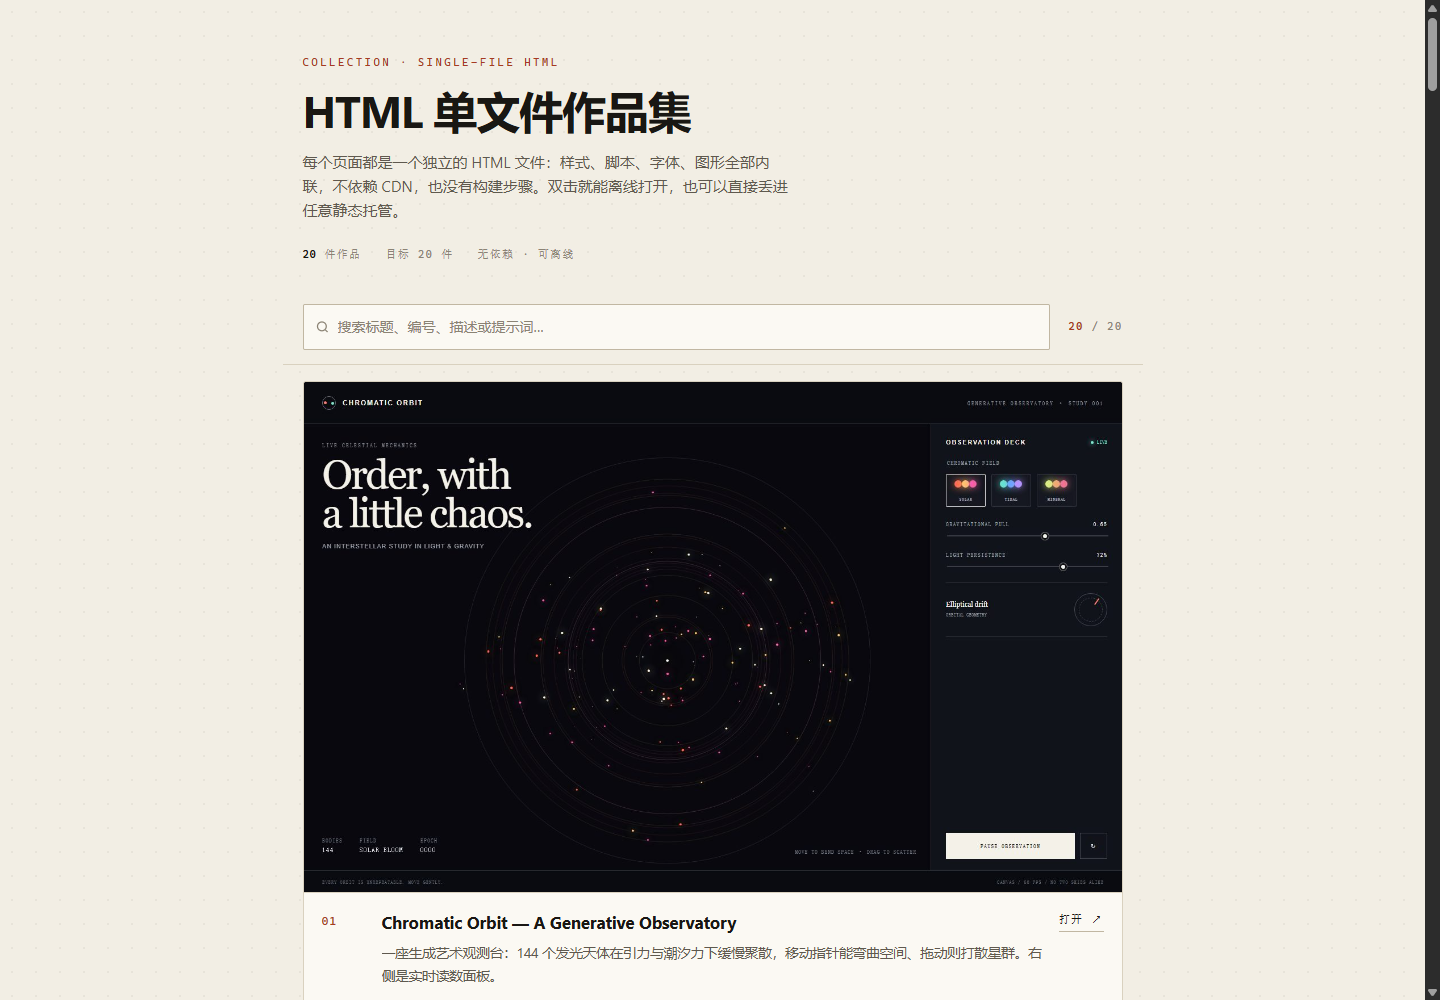
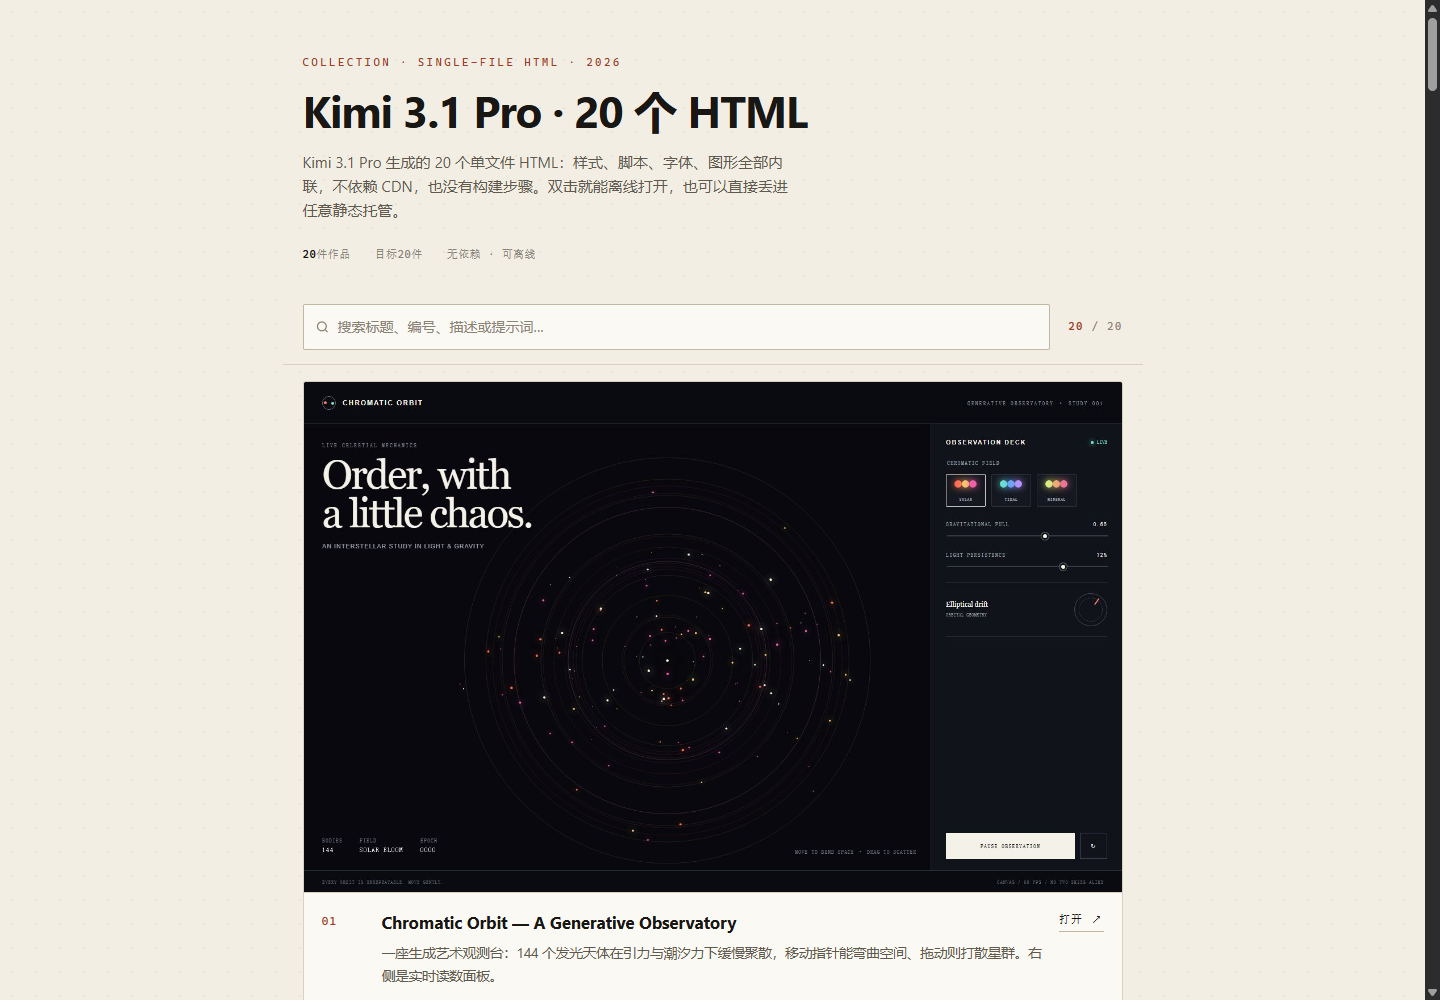
Attribute collection to Kimi 3.1 Pro and refresh social copy

Changed region(s): [[0.2188, 0.093, 0.5625, 0.186], [0.2188, 0.248, 0.4062, 0.279]]

diff --git a/index.html b/index.html
@@ -3,12 +3,12 @@
 <head>
 <meta charset="utf-8">
 <meta name="viewport" content="width=device-width, initial-scale=1">
-<title>HTML 单文件作品集 · 20 件</title>
-<meta name="description" content="每个页面都是一个独立的 HTML 文件：样式、脚本、字体、图形全部内联，不依赖 CDN，也没有构建步骤。双击就能离线打开，也可以直接丢进任意静态托管。">
+<title>Kimi 3.1 Pro · 20 个 HTML</title>
+<meta name="description" content="Kimi 3.1 Pro 生成的 20 个单文件 HTML：样式、脚本、字体、图形全部内联，不依赖 CDN，也没有构建步骤。双击就能离线打开，也可以直接丢进任意静态托管。">
 <link rel="canonical" href="https://ennheng.github.io/html-studies/">
 <meta property="og:type" content="website">
-<meta property="og:title" content="HTML 单文件作品集 · 20件">
-<meta property="og:description" content="每个页面都是一个独立的 HTML 文件：样式、脚本、字体、图形全部内联，不依赖 CDN，也没有构建步骤。双击就能离线打开，也可以直接丢进任意静态托管。">
+<meta property="og:title" content="Kimi 3.1 Pro · 20 个 HTML">
+<meta property="og:description" content="Kimi 3.1 Pro 生成的 20 个单文件 HTML：样式、脚本、字体、图形全部内联，不依赖 CDN，也没有构建步骤。双击就能离线打开，也可以直接丢进任意静态托管。">
 <meta property="og:url" content="https://ennheng.github.io/html-studies/">
 <meta property="og:image" content="https://ennheng.github.io/html-studies/og.jpg">
 <meta property="og:image:width" content="1200">
@@ -90,9 +90,9 @@ footer a:hover{text-decoration:underline}
 <body>
 <main class="wrap">
 <header>
-  <p class="eyebrow">COLLECTION · SINGLE-FILE HTML</p>
-  <h1>HTML 单文件作品集</h1>
-  <p class="lede">每个页面都是一个独立的 HTML 文件：样式、脚本、字体、图形全部内联，不依赖 CDN，也没有构建步骤。双击就能离线打开，也可以直接丢进任意静态托管。</p>
+  <p class="eyebrow">COLLECTION · SINGLE-FILE HTML · 2026</p>
+  <h1>Kimi 3.1 Pro · 20 个 HTML</h1>
+  <p class="lede">Kimi 3.1 Pro 生成的 20 个单文件 HTML：样式、脚本、字体、图形全部内联，不依赖 CDN，也没有构建步骤。双击就能离线打开，也可以直接丢进任意静态托管。</p>
   <p class="stats"><span><b>20</b>件作品</span><span>目标20件</span><span>无依赖 · 可离线</span></p>
 </header>
 <div class="toolbar">
@@ -346,7 +346,7 @@ footer a:hover{text-decoration:underline}
 </div>
 <p class="empty" id="empty" hidden>没有匹配的作品，换个关键词试试。</p>
 <noscript><p class="src">全部作品与预览已列在上方；启用 JavaScript 后可以使用搜索和提示词面板。</p></noscript>
-<footer><span>HTML 单文件作品集 · 20件 · 单文件 HTML</span><a href="https://github.com/ennheng/html-studies">GitHub ↗</a></footer>
+<footer><span>Kimi 3.1 Pro · 20 个 HTML</span><a href="https://github.com/ennheng/html-studies">GitHub ↗</a></footer>
 </main>
 <script>
 const cards = [...document.querySelectorAll('.card')];

diff --git a/scripts/build_gallery.py b/scripts/build_gallery.py
@@ -21,12 +21,8 @@ OUT = ROOT / "index.html"
 THUMBS = ROOT / "thumbs"
 STUDY_GLOBS = ("[0-9][0-9]-*.html", "[0-9][0-9][0-9]-*.html")
 
-COLLECTION = "HTML 单文件作品集"
-EYEBROW = "COLLECTION · SINGLE-FILE HTML"
-LEDE = (
-    "每个页面都是一个独立的 HTML 文件：样式、脚本、字体、图形全部内联，"
-    "不依赖 CDN，也没有构建步骤。双击就能离线打开，也可以直接丢进任意静态托管。"
-)
+MODEL = "Kimi 3.1 Pro"
+EYEBROW = "COLLECTION · SINGLE-FILE HTML · 2026"
 TARGET = 20
 SITE_URL = "https://ennheng.github.io/html-studies/"  # 部署后的地址，用来生成 og:image 的绝对路径
 REPO_URL = "https://github.com/ennheng/html-studies"  # 留空则不显示右下角链接
@@ -277,6 +273,11 @@ def main() -> None:
 
     with_thumbs = sum(1 for entry in entries if entry["thumb"])
     count = len(entries)
+    headline = f"{MODEL} · {count} 个 HTML"
+    lede = (
+        f"{MODEL} 生成的 {count} 个单文件 HTML：样式、脚本、字体、图形全部内联，"
+        "不依赖 CDN，也没有构建步骤。双击就能离线打开，也可以直接丢进任意静态托管。"
+    )
     target_line = f"<span>目标{TARGET}件</span>" if TARGET else ""
 
     social = ""
@@ -284,8 +285,8 @@ def main() -> None:
         social = (
             f'<link rel="canonical" href="{SITE_URL}">\n'
             '<meta property="og:type" content="website">\n'
-            f'<meta property="og:title" content="{escape(COLLECTION)} · {count}件">\n'
-            f'<meta property="og:description" content="{escape(LEDE)}">\n'
+            f'<meta property="og:title" content="{escape(headline)}">\n'
+            f'<meta property="og:description" content="{escape(lede)}">\n'
             f'<meta property="og:url" content="{SITE_URL}">\n'
             f'<meta property="og:image" content="{SITE_URL}og.jpg">\n'
             '<meta property="og:image:width" content="1200">\n'
@@ -299,8 +300,8 @@ def main() -> None:
 <head>
 <meta charset="utf-8">
 <meta name="viewport" content="width=device-width, initial-scale=1">
-<title>{escape(COLLECTION)} · {count} 件</title>
-<meta name="description" content="{escape(LEDE)}">
+<title>{escape(headline)}</title>
+<meta name="description" content="{escape(lede)}">
 {social}<meta name="generator" content="scripts/build_gallery.py">
 <link rel="icon" href="favicon.svg" type="image/svg+xml">
 <style>{CSS}</style>
@@ -309,8 +310,8 @@ def main() -> None:
 <main class="wrap">
 <header>
   <p class="eyebrow">{escape(EYEBROW)}</p>
-  <h1>{escape(COLLECTION)}</h1>
-  <p class="lede">{escape(LEDE)}</p>
+  <h1>{escape(headline)}</h1>
+  <p class="lede">{escape(lede)}</p>
   <p class="stats"><span><b>{count}</b>件作品</span>{target_line}<span>无依赖 · 可离线</span></p>
 </header>
 <div class="toolbar">
@@ -326,7 +327,7 @@ def main() -> None:
     tail = f"""</div>
 <p class="empty" id="empty" hidden>没有匹配的作品，换个关键词试试。</p>
 <noscript><p class="src">全部作品与预览已列在上方；启用 JavaScript 后可以使用搜索和提示词面板。</p></noscript>
-<footer><span>{escape(COLLECTION)} · {count}件 · 单文件 HTML</span>{f'<a href="{REPO_URL}">GitHub ↗</a>' if REPO_URL else '<span>由 build_gallery.py 生成</span>'}</footer>
+<footer><span>{escape(headline)}</span>{f'<a href="{REPO_URL}">GitHub ↗</a>' if REPO_URL else '<span>由 build_gallery.py 生成</span>'}</footer>
 </main>
 <script>{JS}</script>
 </body>

diff --git a/scripts/make_og.py b/scripts/make_og.py
@@ -32,10 +32,10 @@ def main() -> None:
     eyebrow_font = ImageFont.truetype(FONT_EN, 15)
     meta_font = ImageFont.truetype(FONT_EN, 15)
 
-    draw.text((margin, 28), "C O L L E C T I O N   ·   S I N G L E - F I L E   H T M L", font=eyebrow_font, fill=ACCENT)
+    draw.text((margin, 28), "K I M I   3 . 1   P R O   ·   2 0   S I N G L E - F I L E   H T M L", font=eyebrow_font, fill=ACCENT)
     draw.text((margin, 56), "20 个 HTML，一个作品集", font=title_font, fill=INK)
     draw.text((W - margin, 34), "2026", font=meta_font, fill=MUTED, anchor="ra")
-    draw.text((W - margin, 58), "SELF-CONTAINED", font=meta_font, fill=MUTED, anchor="ra")
+    draw.text((W - margin, 58), "SINGLE-FILE", font=meta_font, fill=MUTED, anchor="ra")
 
     # 2×3 缩略图墙
     picks = ["01-chromatic-orbit", "06-brutalist-radio", "09-alpine-air",

diff --git a/README.md b/README.md
@@ -1,6 +1,6 @@
-# HTML 单文件作品集
+# Kimi 3.1 Pro · 20 个 HTML
 
-20 个自包含的网页作品。每一件都是一个 HTML 文件：样式、脚本、SVG 全部内联，没有外部字体、图片、CDN 或构建步骤，双击就能离线打开。
+20 个自包含的网页作品，全部由 **Kimi 3.1 Pro** 生成。每一件都是一个 HTML 文件：样式、脚本、SVG 全部内联，没有外部字体、图片、CDN 或构建步骤，双击就能离线打开。
 
 ![画廊首页](preview.jpg)
 
@@ -81,9 +81,9 @@ gh api --method POST repos/ennheng/html-studies/pages \
 
 代价是每次部署多花两三分钟装 Playwright，20 件作品不值得，作品多了再开。
 
-## 补齐提示词
+## 提示词
 
-现在 20 个 txt 里 **PROMPT** 段是空的，所以卡片上只有「打开 ↗」。
+20 个 txt 里的 **PROMPT** 段现在是空的，所以卡片上只有「打开 ↗」。
 
 把生成每一页时用的完整提示词粘进对应 txt 的 PROMPT 段，重新跑 build_gallery.py，卡片上就会多出「提示词」按钮和展开面板——那才是这类作品集真正值钱的部分：**别人能看见同样的输入换来了什么输出**。
 
